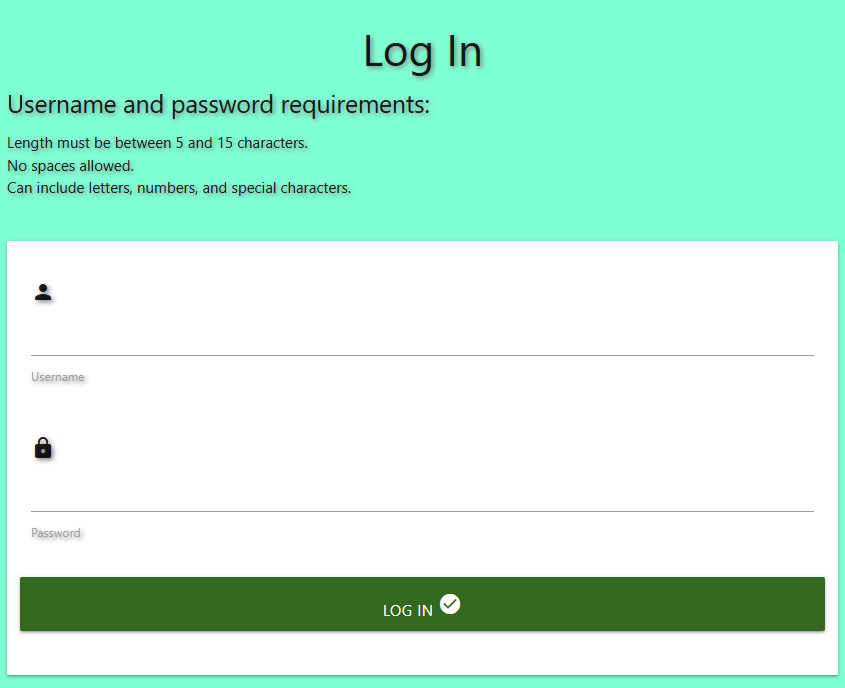
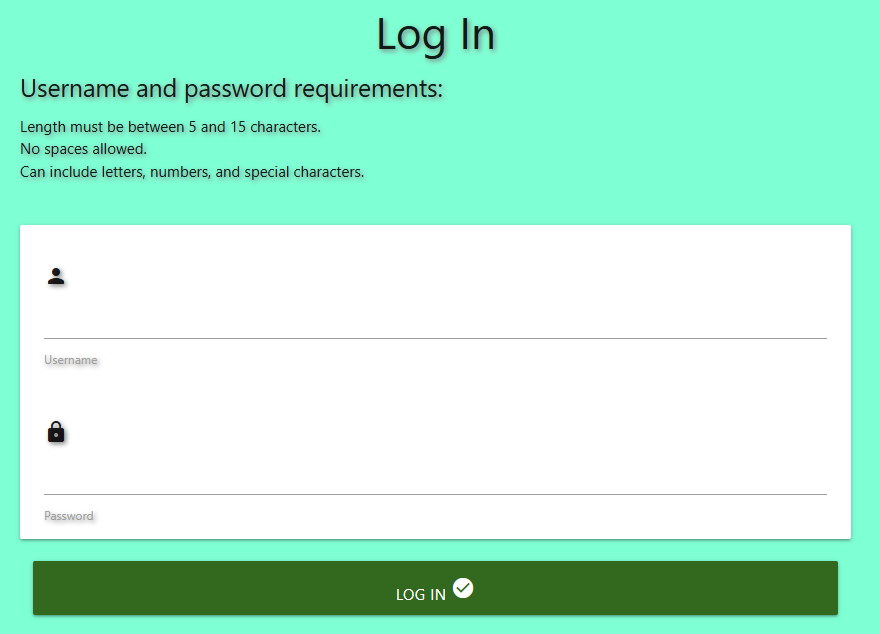
readme updated

Changed region(s): [[0.0, 0.3297, 1.0, 0.989], [0.0, 0.03, 0.5846, 0.2997]]

diff --git a/templates/login.html b/templates/login.html
@@ -15,7 +15,7 @@
 
     <div class="row">
         <form class="col s12 m8 offset-m2" method="POST" action="{{ url_for('login') }}">
-            <div class="card-panel">
+            <div class="card-panel" id="login">
                 <!-- username -->
                 <div class="row">
 					<div class="input-field col s12">

diff --git a/static/css/style.css b/static/css/style.css
@@ -29,6 +29,10 @@ body {
     height: 50vh;
 }
 
+#login{
+  height: 33vh;
+}
+
 div {
     text-align: justify;
   }

diff --git a/README.md b/README.md
@@ -49,7 +49,7 @@ As developers, our objectives are to:
     ![Logged out user](static/images/nav-loggedout.PNG)
    * User registration and authentication. \
     ![Log in](static/images/log-in.PNG) \
-     ![Register]()
+     ![Register](static/images/register.PNG)
    * Profile display, and management. \
     ![Profile page](static/images/profile-example.PNG)
    * Adding items to user's profile. \
